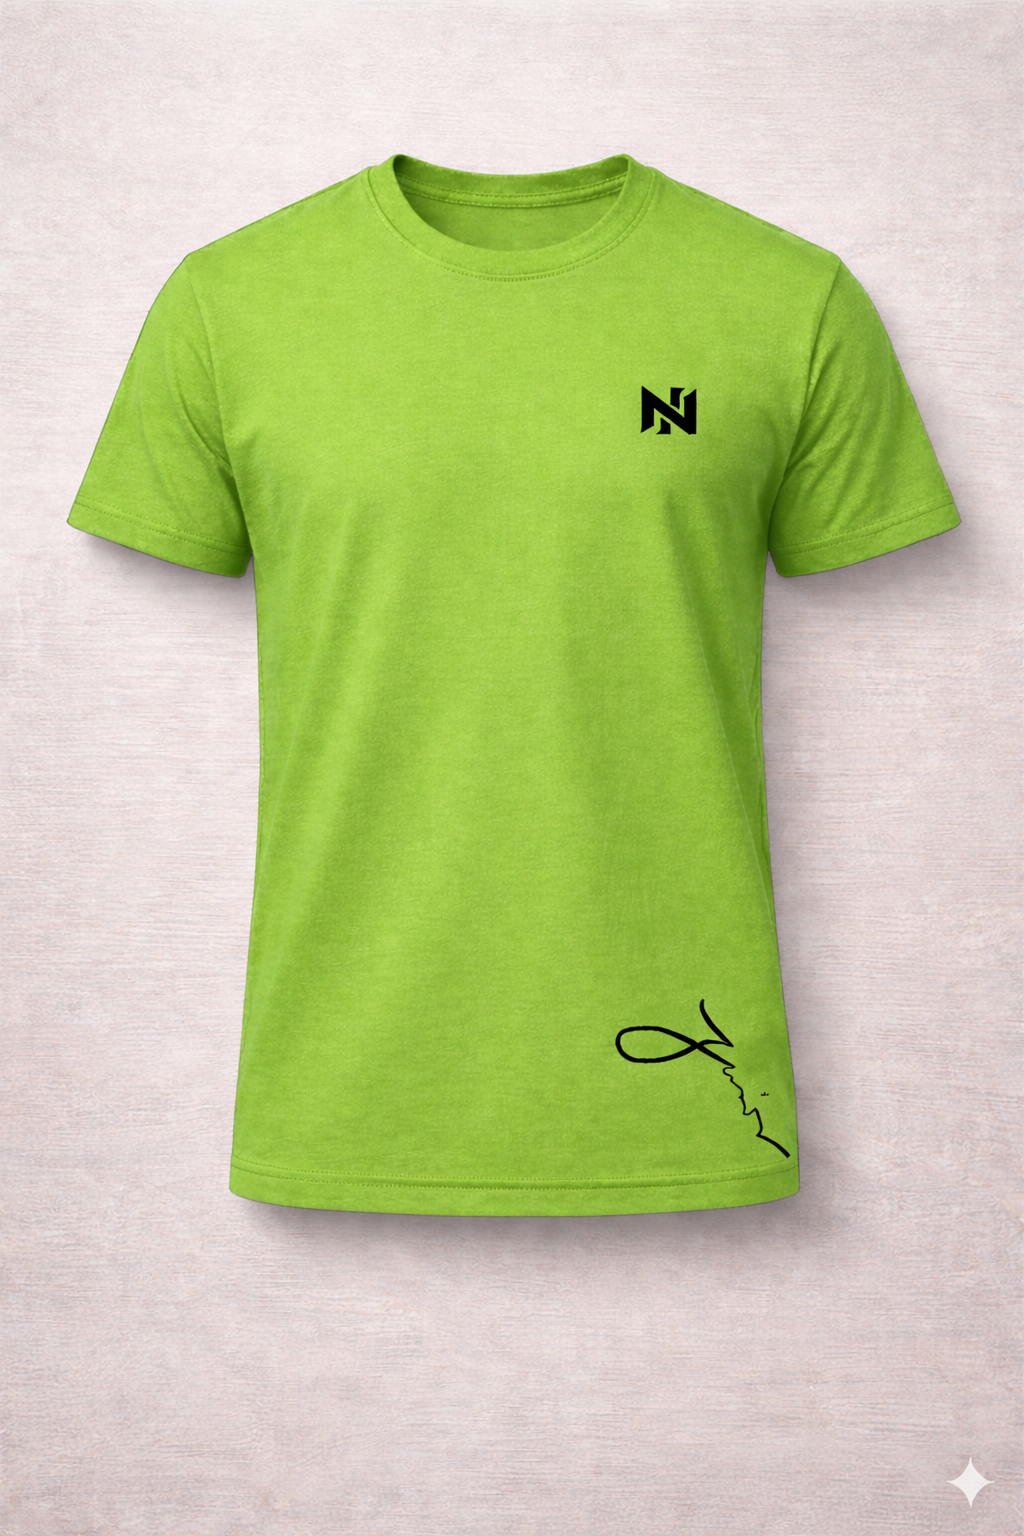
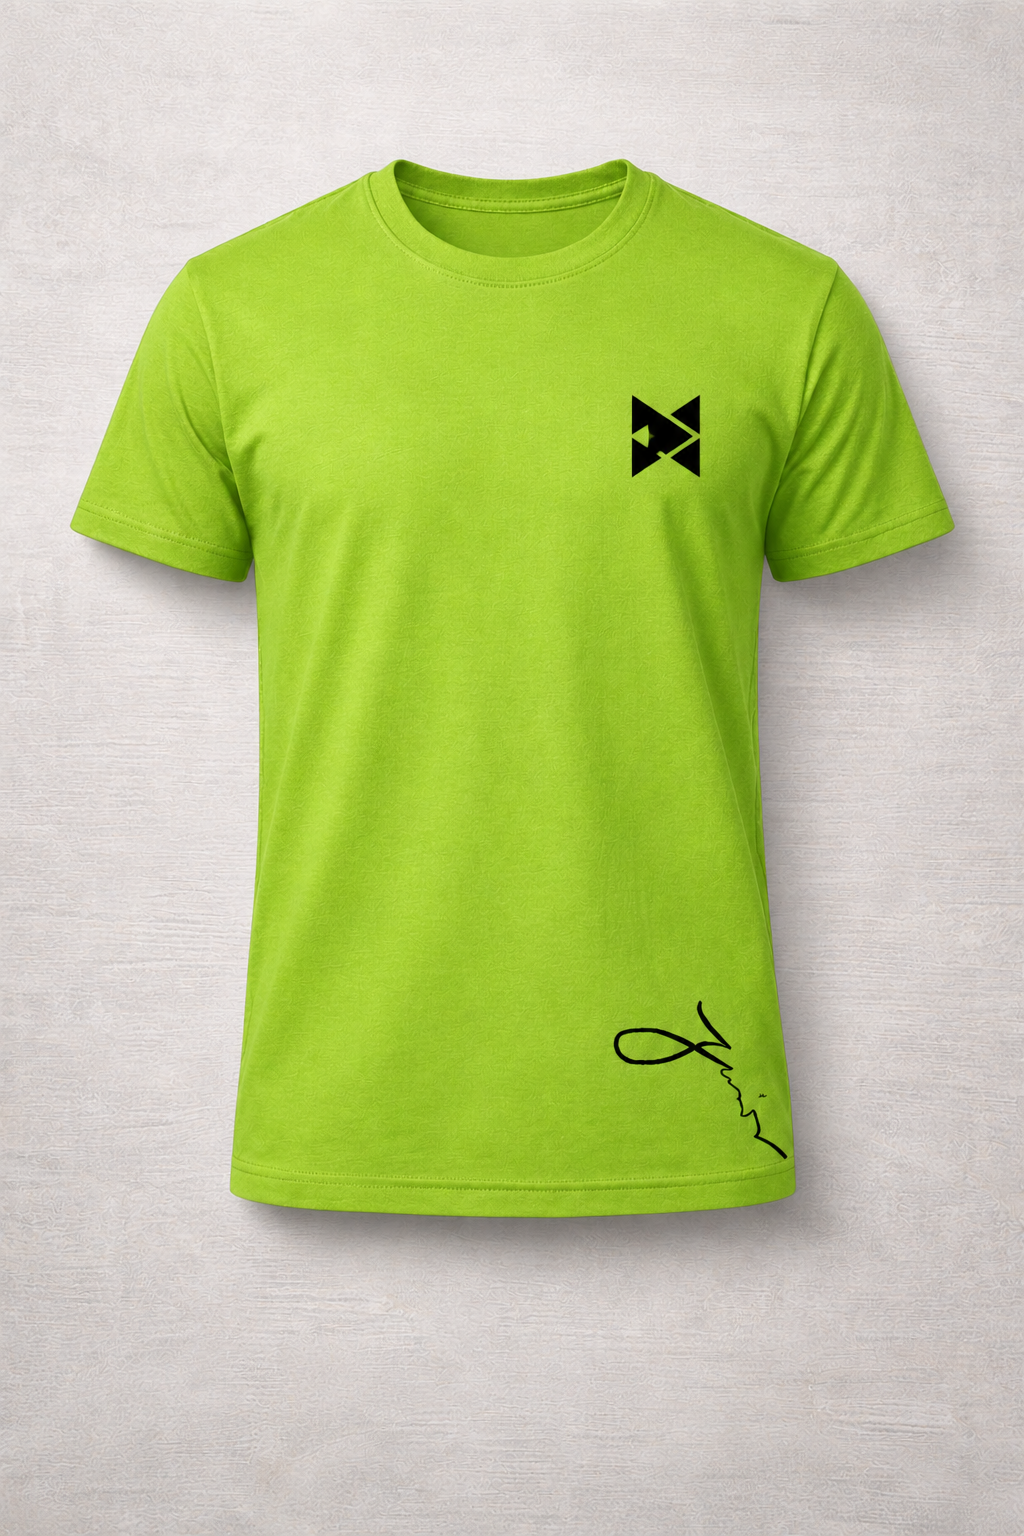
tweaks and updates soo many

diff --git a/css/styles.css b/css/styles.css
@@ -502,8 +502,9 @@ section.tight{ padding: 60px 0; }
   top: -120px;
   right: -60px;
   right: 0;
-  background: transparent;
-  border: none;
+  background: var(--ink);
+  border: 4px solid var(--marigold);
+  border-radius: 50%;
   color: var(--paper);
   cursor: pointer;
   padding: 8px;
@@ -513,6 +514,7 @@ section.tight{ padding: 60px 0; }
   transition: color 0.3s ease;
   z-index: 3;
   font-family: inherit;
+  box-shadow: var(--shadow-board-sm);
 }
 
 .business-card-close:hover {
@@ -526,12 +528,13 @@ section.tight{ padding: 60px 0; }
   position: absolute;
   background: var(--marigold);
   color: var(--ink);
-  border-radius: var(--radius);
+  border-radius: 20px;
   padding: 8px 20px;
   font-family: inherit;
   font-weight: 700;
   text-transform: uppercase;
   letter-spacing: 0.05em;
+  box-shadow: var(--shadow-board-sm);
 }
 
 .bg-image-cover {
@@ -560,7 +563,8 @@ section.tight{ padding: 60px 0; }
 }
 @keyframes reviewIn{ from{ opacity:0; transform:translate(-50%,-46%); } to{ opacity:1; transform:translate(-50%,-50%); } }
 .review-close{
-  position:absolute; top:14px; right:14px; background:none; border:none;
+  position:absolute; top:14px; right:14px; background:var(--marigold-2); border: 1px solid var(--ink); border-radius:50%; 
+  z-index: 2;
   cursor:pointer; color:var(--ink); padding:6px; display:flex;
 }
 .review-close:hover{ color:var(--route-red); }
@@ -607,14 +611,15 @@ section.tight{ padding: 60px 0; }
   border-radius: var(--radius);
   overflow:hidden;
   transition: transform .15s ease, box-shadow .15s ease;
+  box-shadow: 0 0 1px rgba(0,0,0,0.1);
 }
 .merch-card:hover{ transform: translate(-2px,-2px); box-shadow: var(--shadow-board-sm); }
 .merch-card.is-soldout{ opacity:0.55; cursor:default; }
 .merch-card.is-soldout:hover{ transform:none; box-shadow:none; }
 .merch-card-image-wrap{
   position:relative;
-  aspect-ratio: 1 / 1;
-  background: var(--paper-2);
+  aspect-ratio: 0.78 / 1;
+  background: var(--ink-soft);
 }
 .merch-card-image{ width:100%; height:100%; object-fit:cover; }
 .merch-card-body{ padding: 14px 16px 18px; }
@@ -635,7 +640,49 @@ section.tight{ padding: 60px 0; }
 .merch-badge-soldout{ left:10px; background:var(--ink); color:var(--paper); }
 
 @media (max-width: 900px){
-  .merch-grid, .merch-grid-teaser{ grid-template-columns: repeat(2, 1fr); }
+  .merch-grid, .merch-grid-teaser{ grid-template-columns: repeat(1, 1fr); }
+}
+
+/* ===== Merch Carousel (mobile teaser) ===== */
+.merch-carousel-wrap{ position:relative; }
+.merch-carousel-arrow{
+  display:none;
+  position:absolute; top:38%;
+  z-index:2;
+}
+.merch-carousel-arrow.is-edge-hidden{ display:none !important; }
+.merch-carousel-prev{ left:-20px; }
+.merch-carousel-next{ right:-20px; }
+
+@media (max-width: 900px){
+  .merch-grid-teaser{
+    display:flex;
+    grid-template-columns:none;
+    overflow-x:auto;
+    scroll-snap-type:x mandatory;
+    -webkit-overflow-scrolling:touch;
+    gap:16px;
+    padding:2px 4px 8px;
+    scrollbar-width:none;
+  }
+  .merch-grid-teaser::-webkit-scrollbar{ display:none; }
+  .merch-grid-teaser .merch-card{
+    flex:0 0 78%;
+    scroll-snap-align:start;
+  }
+  .merch-carousel-wrap{ padding:0 6px; }
+  .merch-carousel-arrow{ display:flex; }
+}
+
+@media (min-width: 900px) {
+  .merch-carousel-arrow{
+    display: none;
+  }
+  .merch-carousel-prev{ display: none; }
+  .merch-carousel-next{ display: none; }
+  .carousel-arrow{
+    display: none;
+  }
 }
 
 /* ===== Product Modal ===== */
@@ -653,11 +700,11 @@ section.tight{ padding: 60px 0; }
   box-shadow:var(--shadow-board); padding:36px;
 }
 .product-dialog-grid{ display:grid; grid-template-columns: 1fr 1fr; gap:36px; }
-.product-hero-wrap{ position:relative; background:var(--paper-2); border-radius:10px; overflow:hidden; aspect-ratio:1/1; }
+.product-hero-wrap{ position:relative; background:var(--paper-2); border-radius:10px; overflow:hidden; aspect-ratio:0.7/1; box-shadow: var(--shadow-board-sm); }
 .product-hero{ width:100%; height:100%; object-fit:cover; }
 .product-badge{ position:absolute; top:12px; left:12px; }
 .product-thumbs{ display:flex; gap:10px; margin-top:12px; }
-.product-thumbs img{ width:64px; height:64px; object-fit:cover; border-radius:6px; border:1.5px solid var(--ink); cursor:pointer; opacity:0.55; transition:opacity .15s ease, border-color .15s ease; }
+.product-thumbs img{ width:64px; height:64px; object-fit:fit; border-radius:6px; border:1.5px solid var(--ink); cursor:pointer; opacity:0.55; transition:opacity .15s ease, border-color .15s ease;}
 .product-thumbs img:hover{ opacity:0.85; }
 .product-thumbs img.is-active{ opacity:1; border-color:var(--marigold-2); border-width:2.5px; }
 .product-size-row{ display:flex; gap:8px; margin-top:8px; flex-wrap:wrap; }
@@ -666,11 +713,14 @@ section.tight{ padding: 60px 0; }
   font-family:var(--font-mono); font-size:0.82rem; cursor:pointer;
 }
 .product-size-btn.is-selected{ background:var(--ink); color:var(--paper); }
+.product-size-btn.is-disabled,
+.product-size-btn:disabled{ opacity:0.45; cursor:default; }
 .product-qty-row{ display:flex; align-items:center; gap:14px; margin-top:8px; }
 .product-qty-row button{
   width:32px; height:32px; border:1.5px solid var(--ink); border-radius:6px; background:var(--paper);
   font-size:1.1rem; cursor:pointer; line-height:1;
 }
+.product-qty-row button:disabled{ opacity:0.35; cursor:not-allowed; }
 @media (max-width: 760px){
   .product-dialog-grid{ grid-template-columns: 1fr; }
 }
@@ -718,12 +768,15 @@ section.tight{ padding: 60px 0; }
   display:grid; grid-template-columns: 56px 1fr auto; gap:14px; align-items:center;
   padding-bottom:14px; border-bottom:1px solid rgba(14,15,10,0.12);
 }
-.bag-row-image{ width:56px; height:56px; object-fit:cover; border-radius:6px; border:1.5px solid var(--ink); }
+.bag-row-image{ width:56px; height:56px; object-fit:fit; border-radius:6px; border:1.5px solid var(--ink); 
+box-shadow: var(--shadow-board-sm);
+}
 .bag-row-qty{ display:flex; align-items:center; gap:8px; margin-top:6px; }
 .bag-row-qty button{
   width:24px; height:24px; border:1.5px solid var(--ink); border-radius:5px; background:var(--paper);
   cursor:pointer; line-height:1; font-size:0.9rem;
 }
+.bag-row-qty button:disabled{ opacity:0.35; cursor:not-allowed; }
 .bag-row-right{ display:flex; flex-direction:column; align-items:flex-end; gap:10px; }
 .bag-remove{
   width:28px; height:28px; border:none; background:#bc39322a; border-radius:7px;

diff --git a/js/merch.js b/js/merch.js
@@ -88,12 +88,59 @@ function loadMerchInto(grid, options) {
         if (product) window.openProductModal?.(product);
       });
     });
+
+    opts.onLoaded?.();
   });
+}
+
+function initMerchCarouselControls(grid) {
+  if (!grid) return;
+  const wrap = grid.closest('.merch-carousel-wrap');
+  if (!wrap) return;
+
+  const prevBtn = wrap.querySelector('[data-merch-prev]');
+  const nextBtn = wrap.querySelector('[data-merch-next]');
+  if (!prevBtn || !nextBtn) return;
+
+  const scrollByCard = (direction) => {
+    const card = grid.querySelector('.merch-card');
+    if (!card) return;
+    const gap = parseFloat(getComputedStyle(grid).columnGap || getComputedStyle(grid).gap || '0') || 0;
+    const amount = card.getBoundingClientRect().width + gap;
+    grid.scrollBy({ left: direction * amount, behavior: 'smooth' });
+  };
+
+  function updateArrowVisibility() {
+    const maxScroll = grid.scrollWidth - grid.clientWidth;
+    const scrollable = maxScroll > 1; // nothing to scroll — e.g. content fits on screen
+    const atStart = grid.scrollLeft <= 1;
+    const atEnd = grid.scrollLeft >= maxScroll - 1;
+
+    prevBtn.classList.toggle('is-edge-hidden', !scrollable || atStart);
+    nextBtn.classList.toggle('is-edge-hidden', !scrollable || atEnd);
+  }
+
+  prevBtn.addEventListener('click', () => scrollByCard(-1));
+  nextBtn.addEventListener('click', () => scrollByCard(1));
+
+  grid.addEventListener('scroll', updateArrowVisibility);
+  window.addEventListener('resize', updateArrowVisibility);
+  if ('ResizeObserver' in window) {
+    new ResizeObserver(updateArrowVisibility).observe(grid);
+  }
+
+  updateArrowVisibility();
 }
 
 function initMerchGrid() {
   loadMerchInto(document.getElementById('merch-grid'));
-  loadMerchInto(document.getElementById('merch-grid-home'), { limit: 4, loadingLabel: 'Loading merch…' });
+
+  const homeGrid = document.getElementById('merch-grid-home');
+  loadMerchInto(homeGrid, {
+    limit: 4,
+    loadingLabel: 'Loading merch…',
+    onLoaded: () => initMerchCarouselControls(homeGrid),
+  });
 }
 
 document.addEventListener('DOMContentLoaded', () => {

diff --git a/components/product-modal.js b/components/product-modal.js
@@ -78,6 +78,7 @@
     let variants = [];
     let selectedVariant = null;
     let quantity = 1;
+    let totalStock = 0;
 
     function setStatus(message, isError) {
       if (!message) {
@@ -106,10 +107,31 @@
     }
 
     function updateQtyAndAddState() {
-      const soldOut = !selectedVariant || selectedVariant.stock === 0;
       qtyEl.textContent = String(quantity);
+
+      if (totalStock === 0) {
+        // Every size is sold out — no point asking the user to pick one.
+        addBtn.disabled = true;
+        addBtn.textContent = 'Sold out';
+        qtyMinus.disabled = true;
+        qtyPlus.disabled = true;
+        return;
+      }
+
+      if (!selectedVariant) {
+        // Stock exists somewhere, just nothing picked yet — not the same as sold out.
+        addBtn.disabled = true;
+        addBtn.textContent = 'Select a size';
+        qtyMinus.disabled = true;
+        qtyPlus.disabled = true;
+        return;
+      }
+
+      const soldOut = selectedVariant.stock === 0;
       addBtn.disabled = soldOut;
       addBtn.textContent = soldOut ? 'Sold out' : 'Add to bag';
+      qtyMinus.disabled = soldOut || quantity <= 1;
+      qtyPlus.disabled = soldOut || quantity >= selectedVariant.stock;
     }
 
     function selectVariant(variant, buttonEl) {
@@ -148,7 +170,7 @@
       });
       if (images.length < 2) thumbs.style.display = 'none'; else thumbs.style.display = 'flex';
 
-      const totalStock = variants.reduce((sum, v) => sum + v.stock, 0);
+      totalStock = variants.reduce((sum, v) => sum + v.stock, 0);
       if (totalStock === 0) {
         badge.textContent = 'Sold out';
         badge.style.display = 'inline-block';
@@ -205,13 +227,13 @@
 
     qtyMinus.addEventListener('click', () => {
       quantity = Math.max(1, quantity - 1);
-      qtyEl.textContent = String(quantity);
+      updateQtyAndAddState();
     });
 
     qtyPlus.addEventListener('click', () => {
       const max = selectedVariant?.stock ?? 99;
       quantity = Math.min(max, quantity + 1);
-      qtyEl.textContent = String(quantity);
+      updateQtyAndAddState();
     });
 
     addBtn.addEventListener('click', () => {

diff --git a/pages/index.html b/pages/index.html
@@ -262,6 +262,20 @@
     padding:0; transition: background .2s ease;
   }
   .carousel-dot.is-active{ background:var(--marigold); }
+
+  @media (min-width: 900px) {
+    .merch-carousel-wrap .carousel-arrow {
+      display: none;
+    }
+  }
+
+  @media (max-width: 900px) {
+    .shop-all-btn {
+      margin-left: -50px;
+      padding: 6px 10px;
+      font-size: 0.73rem;
+    }
+  }
 </style>
 
 <!-- ===================== MERCH TEASER ===================== -->
@@ -272,10 +286,18 @@
         <span class="route-tag green">Merch</span>
         <h2 style="margin-top:14px;">Wear the talent.</h2>
       </div>
-      <a href="merch.html" class="btn btn-outline">Shop all merch →</a>
+      <a href="merch.html" class="btn btn-outline shop-all-btn">Shop all merch →</a>
     </div>
-    <div id="merch-grid-home" class="merch-grid merch-grid-teaser">
-      <!-- Featured products loaded from Supabase -->
+    <div class="merch-carousel-wrap">
+      <button type="button" data-merch-prev class="carousel-arrow merch-carousel-arrow merch-carousel-prev" aria-label="Previous product">
+        <svg width="18" height="18" viewBox="0 0 18 18"><path d="M11 3 L5 9 L11 15" stroke="var(--ink)" stroke-width="2.2" fill="none" stroke-linecap="round" stroke-linejoin="round"/></svg>
+      </button>
+      <div id="merch-grid-home" class="merch-grid merch-grid-teaser">
+        <!-- Featured products loaded from Supabase -->
+      </div>
+      <button type="button" data-merch-next class="carousel-arrow merch-carousel-arrow merch-carousel-next" aria-label="Next product">
+        <svg width="18" height="18" viewBox="0 0 18 18"><path d="M7 3 L13 9 L7 15" stroke="var(--ink)" stroke-width="2.2" fill="none" stroke-linecap="round" stroke-linejoin="round"/></svg>
+      </button>
     </div>
   </div>
 </section>

diff --git a/components/checkout-modal.js b/components/checkout-modal.js
@@ -105,9 +105,9 @@
                 ${item.size ? `Size ${escapeHTML(item.size)} · ` : ''}${formatGHS(item.price * (item.discount_percent ? 1 - item.discount_percent / 100 : 1))}
               </div>
               <div class="bag-row-qty">
-                <button type="button" data-bag-minus="${i}" aria-label="Decrease quantity">−</button>
+                <button type="button" data-bag-minus="${i}" aria-label="Decrease quantity" ${item.quantity <= 1 ? 'disabled' : ''}>−</button>
                 <span>${item.quantity}</span>
-                <button type="button" data-bag-plus="${i}" aria-label="Increase quantity">+</button>
+                <button type="button" data-bag-plus="${i}" aria-label="Increase quantity" ${item.quantity >= (item.stock ?? 99) ? 'disabled' : ''}>+</button>
               </div>
             </div>
             <div class="bag-row-right">

diff --git a/components/business-card.js b/components/business-card.js
@@ -27,11 +27,12 @@ window.NxNxComponents.businessCard = `
       <!-- Download button -->
       <a aria-label="Download business card" title="Download business card" href="../images/b-card.png" download="Nana-Nketia-Business-Card.png">
       <button class="business-card-download btn" type-"button">
-        <svg width="200" height="28" viewBox="0 0 24 24" fill="none" stroke="currentColor" stroke-width="2">
+        <svg width="50" height="28" viewBox="0 0 24 24" fill="none" stroke="currentColor" stroke-width="2">
           <path d="M21 15v4a2 2 0 0 1-2 2H5a2 2 0 0 1-2-2v-4"></path>
           <polyline points="7 10 12 15 17 10"></polyline>
           <line x1="12" y1="15" x2="12" y2="3"></line> 
         </svg>
+        <span style="margin-left: 8px;">Download</span>
         </button>
       </a>
     </div>